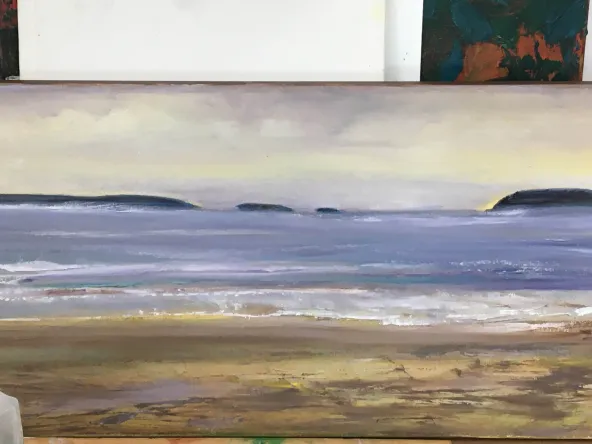
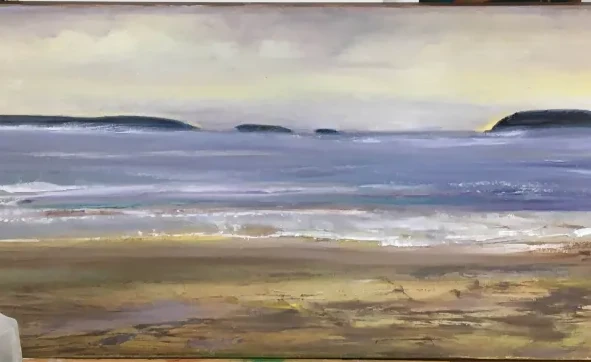
feat: add in new paintings, crop some, and edit about page

diff --git a/index.html b/index.html
@@ -105,9 +105,10 @@
 
     <div id="about" class="content">
         <h2>About</h2>
-            <p>Here on the Bay of Fundy, the tides here are the highest in the world, and their ebb and flow create breathtaking seascapes. </p>
+            <p>Here on the Bay of Fundy, the tides are the highest in the world, and their ebb and flow create breathtaking seascapes. </p>
             <p>I never tire of the changing colors and designs where the sea covers and uncovers vast palettes of clay.</p>
             <p>Exquisitely beautiful no matter the day or season.</p>
+            <img src="minas_basin_high_tide.jpg" style="width: 75%; height: auto;">
     </div>
 
     <div id="gallery" class="content" style="display: none;">
@@ -138,26 +139,51 @@
             const galleryContainer = document.getElementById('gallery-container');
             const placeholderImage = 'https://placehold.co/600x400';
 
-            const artworks = [
-                { title: 'Icy', img: 'icy.jpg' },
-                { title: 'Avon Port Beach', img: 'avon_port_beach.webp' },
-                { title: 'Early Spring Tide', img: 'early_spring_tide.webp'},
-                { title: 'Haze Over Scotts Bay', img: 'haze_over_scotts_bay.webp'},
-                { title: 'Low Tide Sunrise', img: 'low_tide_sunrise.jpg'},
-                { title: 'Minas Basin High Tide', img: 'minas_basin_high_tide.jpg'},
-                { title: 'Mini Minas Morning Minas Maxi Minas', img: 'mini_minas_morning_minas_maxi_minas.jpg'},
-                { title: 'On The Wolfville Dyke November', img: 'on_the_wolfville_dyke_november.jpg'},
-                { title: 'Quiet Day On The Shore', img: 'quiet_day_on_the_shore.webp'},
-                { title: 'Rainy Morning Kingsport', img: 'rainy_morning_kingsport.jpg'},
-                { title: 'Request your own', img: placeholderImage },
-                // { title: 'Artwork 4', img: placeholderImage }
+            
+            const filenames = [
+                'low_tide_sunrise.jpg',
+                'incoming_tide_grand_pre.webp',
+                'minas_basin_high_tide.jpg',
+                'avon_port_beach.webp',
+                'quiet_day_on_the_shore.webp',
+                'rainy_morning_kingsport.jpg',
+                'wolfville_wharf_in_winter.jpg',
+                'low_tide_evangeline.webp',
+                'november_storm_gathering_wolfville.webp',
+                'breakdown_on_the_dikes.webp',
+                'rainy_morning_kingsport.webp',
+                'quiet_day.webp',
+                'morning_on_wolfville_dike.webp',
+                'avonport_beach.webp',
+                'on_the_wolfville_dyke_november.jpg',
+                'mini_minas_morning_minas_maxi_minas.jpg',
+                'icy.jpg',
+                'haze_over_scotts_bay.webp',
+                // placeholderImage // placeholder or custom one
             ];
+
+            function filenameToTitle(filename) {
+                return filename
+                    .replace(/\.[^/.]+$/, '') // remove extension
+                    .replace(/_/g, ' ')       // replace underscores with spaces
+                    .replace(/\b\w/g, c => c.toUpperCase()); // capitalize each word
+            }
+
+            const artworks = filenames.map(img => ({
+                title: filenameToTitle(img),
+                img
+            }));
+
             artworks.forEach(art => {
                 const item = document.createElement('div');
                 item.className = 'gallery-item';
-                item.innerHTML = `<img src="${art.img}" alt="${art.title}" onclick="openModal(this.src)"> <p>${art.title}</p>`;
+                item.innerHTML = `
+                    <img src="${art.img}" alt="${art.title}" onclick="openModal(this.src)">
+                    <p>${art.title}</p>
+                `;
                 galleryContainer.appendChild(item);
             });
+
         }
 
         function openModal(src) {
